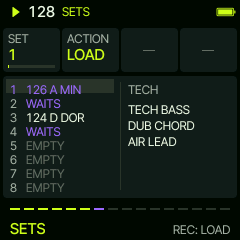
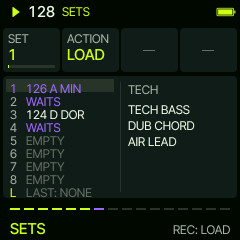
Sardine 0.6: LAST, the last groove kept by itself
SETS' ninth slot: three seconds after a change while stopped (and after a stop), the groove goes into LAST when it
differs from what LAST holds. Not loaded at a start; LOAD brings it back. STORE and CLEAR leave it alone.

Claude-Session: https://claude.ai/code/session_01VgesZgNNDFiPGvKyDTZVUK

Changed region(s): [[0.0292, 0.35, 0.4667, 0.8458]]

diff --git a/firmware/src/sa_ui.c b/firmware/src/sa_ui.c
@@ -389,8 +389,9 @@ static void sv_cards_of(sa_ui *u, sv_card *c)
     }
     case SV_PG_SETS: {
         static const char *const ACT[SV_SA_ACTS] = {"LOAD", "STORE", "NEW", "CLEAR"};
-        sv_fmt_int(t, u->set_slot + 1);
-        sv_card_txt(&c[0], "SET", t, u->set_slot * 1000 / (SV_SETS - 1), false);
+        if (u->set_slot == SV_LAST) sv_cpy(t, "LAST", sizeof t);
+        else sv_fmt_int(t, u->set_slot + 1);
+        sv_card_txt(&c[0], "SET", t, u->set_slot * 1000 / (SV_SLOTS - 1), false);
         sv_card_txt(&c[1], "ACTION", ACT[sv_wrap(u->set_act, SV_SA_ACTS)], -1, false);
         sv_card_off(&c[2]);
         sv_card_off(&c[3]);
@@ -965,23 +966,24 @@ static void sv_panel_key(sa_ui *u)
     }
 }
 
-/* SETS: the eight sets, a row each (its tempo and key), the one picked lit; beside them what it holds (its kit, its
- * synth sounds) */
+/* SETS: the eight sets and LAST, a row each (its tempo and key), the one picked lit; beside them what it holds (its
+ * kit, its synth sounds) */
 static void sv_panel_sets(sa_ui *u)
 {
-    for (int i = 0; i < SV_SETS; ++i) {
+    for (int i = 0; i < SV_SLOTS; ++i) {
         const sv_set_info *si = &u->sets[i];
-        int32_t y = 4 + i * 14;
+        int32_t y = 4 + i * 13;
         bool on = i == u->set_slot;
         char t[24], a[8];
-        if (on) cv_rect(6, y - 1, 108, 14, sv_well());
+        if (on) cv_rect(6, y - 1, 108, 13, sv_well());
         uint16_t bg = on ? sv_well() : T_SURF;
-        sv_fmt_int(a, i + 1);
-        cv_text_on(10, y + 2, &AF_S, a, on ? T_ACCENT : T_MID, bg);
+        if (i == SV_LAST) sv_cpy(a, "L", sizeof a);
+        else sv_fmt_int(a, i + 1);
+        cv_text_on(10, y + 1, &AF_S, a, on ? T_ACCENT : i == SV_LAST ? T_THEME : T_MID, bg);
         if (si->wait) {
             sv_cpy(t, "WAITS", sizeof t);
         } else if (!si->used) {
-            sv_cpy(t, "EMPTY", sizeof t);
+            sv_cpy(t, i == SV_LAST ? "LAST: NONE" : "EMPTY", sizeof t);
         } else {
             sv_fmt_int(t, si->bpm);
             sv_cat(t, " ", sizeof t);
@@ -989,24 +991,33 @@ static void sv_panel_sets(sa_ui *u)
             sv_cat(t, si->scale == SA_SC_MAJOR ? " MAJ" : si->scale == SA_SC_DORIAN ? " DOR" :
                       si->scale == SA_SC_PHRYGIAN ? " PHR" : " MIN", sizeof t);
         }
-        cv_text_fit(26, y + 2, &AF_S, t, si->wait ? T_ACCENT : on ? T_ACCENT : si->used ? T_TEXT : T_DIM, bg, 86);
+        cv_text_fit(26, y + 1, &AF_S, t, si->wait ? T_ACCENT : on ? T_ACCENT : si->used ? T_TEXT : T_DIM, bg, 86);
     }
-    cv_rect(120, 6, 1, 108, T_LINE);
-    const sv_set_info *si = &u->sets[sv_clampi(u->set_slot, 0, SV_SETS - 1)];
+    cv_rect(120, 6, 1, 110, T_LINE);
+    int k = sv_clampi(u->set_slot, 0, SV_SLOTS - 1);
+    const sv_set_info *si = &u->sets[k];
     if (si->wait) {
         sv_label(128, 6, si->wait == 2 ? "CLEARS WHEN" : "SAVES WHEN", T_ACCENT);
         sv_label(128, 22, "STOPPED", T_ACCENT);
         return;
     }
-    if (!si->used) {
+    if (k == SV_LAST) {
+        sv_label(128, 6, "LAST", T_THEME);
+        if (!si->used) {
+            sv_label(128, 26, "KEPT BY ITSELF", T_MID);
+            sv_label(128, 42, "WHEN STOPPED", T_MID);
+            return;
+        }
+    } else if (!si->used) {
         sv_label(128, 6, "EMPTY", T_DIM);
         sv_label(128, 26, "STORE KEEPS", T_MID);
         sv_label(128, 42, "WHAT PLAYS", T_MID);
         return;
     }
-    cv_text_fit(128, 6, &AF_S, sa_kit_name(si->kit), T_MID, T_SURF, 104);
-    for (int k = 0; k < si->nsyn && k < SA_SYNTHS; ++k)
-        cv_text_fit(128, 26 + k * 16, &AF_S, sas_of(si->snd[k])->name, T_TEXT, T_SURF, 104);
+    int32_t y0 = k == SV_LAST ? 22 : 6;
+    cv_text_fit(128, y0, &AF_S, sa_kit_name(si->kit), T_MID, T_SURF, 104);
+    for (int n = 0; n < si->nsyn && n < SA_SYNTHS; ++n)
+        cv_text_fit(128, y0 + 20 + n * 16, &AF_S, sas_of(si->snd[n])->name, T_TEXT, T_SURF, 104);
 }
 
 static void sv_panel_menu(sa_ui *u)
@@ -1261,7 +1272,7 @@ void sv_knob(sa_ui *u, int k, int d)
     }
     if (k == SV_K_PRESETS) {
         if (u->page == SV_PG_SETS) {
-            u->set_slot = sv_clampi(u->set_slot + d, 0, SV_SETS - 1);
+            u->set_slot = sv_clampi(u->set_slot + d, 0, SV_SLOTS - 1);
             return;
         }
         if (u->page == SV_PG_DRUMS) {
@@ -1300,7 +1311,7 @@ void sv_knob(sa_ui *u, int k, int d)
     if (k < SV_K1 || k > SV_K4) return;
     int i = k - SV_K1;
     if (u->page == SV_PG_SETS) {                   /* (nothing to keep: the set picked and the action) */
-        if (i == 0) u->set_slot = sv_clampi(u->set_slot + d, 0, SV_SETS - 1);
+        if (i == 0) u->set_slot = sv_clampi(u->set_slot + d, 0, SV_SLOTS - 1);
         else if (i == 1) u->set_act = sv_clampi(u->set_act + d, 0, SV_SA_ACTS - 1);
         else return;
         u->hot = i;
@@ -1418,7 +1429,11 @@ void sv_button(sa_ui *u, int b, bool down)
     case SV_B_PLAY: sa_play(g, !g->playing); break;
     case SV_B_REC:
         if (u->page == SV_PG_SETS) {               /* the action: the glue does it (the flash is its) */
-            const sv_set_info *si = &u->sets[sv_clampi(u->set_slot, 0, SV_SETS - 1)];
+            const sv_set_info *si = &u->sets[sv_clampi(u->set_slot, 0, SV_SLOTS - 1)];
+            if (u->set_slot == SV_LAST && (u->set_act == SV_SA_STORE || u->set_act == SV_SA_CLEAR)) {
+                sv_msg(u, "LAST KEEPS ITSELF");
+                break;
+            }
             if ((u->set_act == SV_SA_LOAD || u->set_act == SV_SA_CLEAR) && !si->used && !si->wait) {
                 sv_msg(u, "THAT SET IS EMPTY");
                 break;

diff --git a/firmware/src/sa_fw.c b/firmware/src/sa_fw.c
@@ -55,7 +55,8 @@ static void sa_audio_post(int32_t *out, uint32_t n)
 }
 
 /* ---- the flash: the preferences (the look, a count of the starts: each start's fresh groove) in Felucca's first
- * project object; the eight sets, three to an object, in the other three. Written only while stopped (the flash is
+ * project object; the eight sets and LAST (the groove as it was last left, stopped), three to an object, in the other
+ * three. Written only while stopped (the flash is
  * the code's: XIP, writing it while playing would stall the audio); read at any time (storage_hw.c reads in short
  * windows, the audio keeps up) ---- */
 #define SA_PREF_MAGIC 0x31504153u                            /* "SAP1" */
@@ -69,7 +70,9 @@ typedef struct { uint32_t magic; uint16_t size, ver; sa_settings s; } sa_record;
 #define SA_SET_OBJ(k) (OBJ_PROJECT0 + 1u + (uint32_t)(k) / SA_SET_PER)
 #define SA_SET_OFF(k) ((uint32_t)(k) % SA_SET_PER * SA_SET_STRIDE)
 _Static_assert(sizeof(sa_record) <= SA_SET_STRIDE && SA_SET_LEN <= ST_PAYLOAD_MAX, "the sets' room in the flash");
-_Static_assert(OBJ_PROJECT0 + 1u + (SV_SETS - 1u) / SA_SET_PER < OBJ_PROJECT0 + 4u, "the sets in the project objects");
+_Static_assert(OBJ_PROJECT0 + 1u + (SV_SLOTS - 1u) / SA_SET_PER < OBJ_PROJECT0 + 4u, "the sets in the project objects");
+#define SA_LAST_MS 3000u                                     /* LAST: kept this long after the last change, stopped */
+static uint32_t sa_last_sig;                                 /* the groove LAST holds (0: not written this start) */
 static sa_prefs sa_pref;
 static uint8_t sa_pref_look;                                 /* the look as last written */
 static sa_settings sa_next;                                  /* a groove armed for the bar line (a set, a fresh one) */
@@ -183,7 +186,7 @@ static void sa_set_info_of(int k, const sa_settings *s)
 }
 static void sa_sets_scan(void)
 {
-    for (int k = 0; k < SV_SETS; ++k)
+    for (int k = 0; k < SV_SLOTS; ++k)
         sa_set_info_of(k, sa_set_read(k, &sa_next) ? &sa_next : 0);
 }
 
@@ -223,10 +226,14 @@ static void sa_prefs_load(void)
 static void sa_set_do(int act, int k)
 {
     char m[32];
-    k = k < 0 ? 0 : k >= SV_SETS ? SV_SETS - 1 : k;
+    k = k < 0 ? 0 : k >= SV_SLOTS ? SV_SLOTS - 1 : k;
     sv_cpy(m, "SET ", sizeof m);
     m[4] = (char)('1' + k);
     m[5] = 0;
+    if (k == SV_LAST) {
+        if (act == SV_SA_STORE || act == SV_SA_CLEAR) { sv_msg(&sa_u, "LAST KEEPS ITSELF"); return; }
+        sv_cpy(m, "LAST", sizeof m);
+    }
     switch (act) {
     case SV_SA_LOAD:
     case SV_SA_NEW:
@@ -553,8 +560,16 @@ static void sa_frame(void)
             sv_msg(&sa_u, "THE FLASH FAILED");
         }
     }
-    if (sa_dirty && !sa_g.playing && now - sa_save_ms > 2000u) {   /* the look (the groove is not kept: SETS) */
+    static bool was_playing;
+    if (was_playing && !sa_g.playing) sa_save_ms = now;     /* (stopped: the tails ring out before the flash) */
+    was_playing = sa_g.playing;
+    if (sa_dirty && !sa_g.playing && now - sa_save_ms > SA_LAST_MS) {   /* the look; LAST, when the groove changed */
         if (sa_g.s.look != sa_pref_look) sa_prefs_save();
+        uint32_t sig = sv_hashb(2166136261u, &sa_g.s, sizeof sa_g.s) | 1u;
+        if (sig != sa_last_sig && sa_set_write(SV_LAST, &sa_g.s)) {
+            sa_last_sig = sig;
+            sa_set_info_of(SV_LAST, &sa_g.s);
+        }
         sa_dirty = false;
     }
     song.playing = sa_g.playing;

diff --git a/firmware/src/sa_ui.h b/firmware/src/sa_ui.h
@@ -24,8 +24,8 @@
  *   FX         a layer, a DRUMS row: mute it (at once)
  *   ARP        a synth layer: its ARP page (MODE RATE RANGE GATE), again: back
  *   SCL        the KEY page (KEY SCALE CHORDS BARS), again: back
- *   SAVE       SETS: eight grooves kept in the flash (KNOB 1 or PRESETS the set, KNOB 2 LOAD STORE NEW CLEAR, REC does
- *              it; a load or a new groove goes in on the one), again: back
+ *   SAVE       SETS: eight grooves kept in the flash and LAST, the last one kept by itself (KNOB 1 or PRESETS the
+ *              set, KNOB 2 LOAD STORE NEW CLEAR, REC does it; a load or a new groove goes in on the one), again: back
  *   HOME       MAIN, on MAIN: SPACE and back; held: MENU (colour, look)
  *   keys       the open layer, live (snapped to the scale); DRUMS: the lowest 16 are the row's steps (a hit on, off),
  *              the others play it; STEPS: the step's note. Music and steps only
@@ -50,6 +50,8 @@ enum { SV_PG_MAIN, SV_PG_LAYER, SV_PG_ARP, SV_PG_KEY, SV_PG_MENU, SV_PG_DRUMS, S
 
 /* SETS: eight grooves in the flash (the glue keeps them; the screen shows what each holds and asks for the action) */
 #define SV_SETS 8
+#define SV_LAST SV_SETS                       /* the ninth slot: the last groove, kept by itself (LOAD only) */
+#define SV_SLOTS (SV_SETS + 1)
 enum { SV_SA_LOAD, SV_SA_STORE, SV_SA_NEW, SV_SA_CLEAR, SV_SA_ACTS };
 typedef struct {
     uint8_t used, bpm, key, scale, kit, nsyn;
@@ -77,7 +79,7 @@ typedef struct {
     uint32_t frame;
     int batt;
     bool changed;                         /* a setting changed: the glue applies it (and keeps the look) */
-    sv_set_info sets[SV_SETS];            /* what each set holds (the glue fills it) */
+    sv_set_info sets[SV_SLOTS];           /* what each set holds, and LAST (the glue fills it) */
     int set_slot, set_act;                /* SETS: the set picked, the action (SV_SA_*) */
     int req_act, req_slot;                /* REC on SETS: what the glue is to do (req_act -1: nothing) */
     int sback, sback_layer;               /* the page SAVE goes back to */

diff --git a/tests/sa_ui_test.c b/tests/sa_ui_test.c
@@ -505,6 +505,17 @@ int main(int argc, char **argv)
     press(SV_B_REC);
     CHECK(ui.req_act == SV_SA_STORE && ui.req_slot == 6, "REC: STORE into an empty set asked");
     ui.req_act = -1;
+    ui.sets[SV_LAST] = (sv_set_info){1, 128, 5, SA_SC_MINOR, SA_KIT_HOUSE, 2, {2, 4, 0}, 0};
+    sv_knob(&ui, SV_K1, 9);
+    CHECK(ui.set_slot == SV_LAST, "KNOB 1 ends on LAST (%d)", ui.set_slot);
+    shot("19b_sets_last");
+    press(SV_B_REC);
+    CHECK(ui.req_act == -1, "STORE into LAST: refused (it keeps itself)");
+    sv_knob(&ui, SV_K2, -1);
+    press(SV_B_REC);
+    CHECK(ui.req_act == SV_SA_LOAD && ui.req_slot == SV_LAST, "LOAD LAST asked");
+    ui.req_act = -1;
+    sv_knob(&ui, SV_K1, -2);
     sv_knob(&ui, SV_K2, 9);
     CHECK(ui.set_act == SV_SA_CLEAR, "KNOB 2 stops at CLEAR");
     shot("20_sets_clear");

diff --git a/web/emu/sa_web.c b/web/emu/sa_web.c
@@ -470,5 +470,5 @@ EXPORT uint32_t web_da_page(void) { return (uint32_t)sa_u.page; }
 EXPORT uint32_t web_da_style(void) { uint32_t n = 0; for (int l = 0; l < SA_LAYERS; ++l) n += sa_used(&sa_g, l); return n; }
 EXPORT const char *web_da_version(void) { return SA_VERSION; }
 EXPORT uint32_t web_da_groove(void) { return sv_hashb(2166136261u, sa_g.s.code, sizeof sa_g.s.code); }
-EXPORT uint32_t web_da_set_used(uint32_t k) { return k < SV_SETS ? sa_u.sets[k].used : 0u; }
+EXPORT uint32_t web_da_set_used(uint32_t k) { return k < SV_SLOTS ? sa_u.sets[k].used : 0u; }
 EXPORT uint32_t web_sample_rate(void) { return FS; }

diff --git a/docs/MANUAL.md b/docs/MANUAL.md
@@ -171,8 +171,8 @@ All synthesised: TECH, HOUSE, DEEP, HARD, BOOM, TIGHT, AFRO, DUSTY, CLASSIC.
 <img src="screens/sets.png" alt="SETS" width="200">
 </p>
 
-**SAVE** opens SETS: eight grooves kept in the flash, a row each with its tempo and key; beside the rows, what the set
-picked holds (its kit, its synth sounds). **KNOB 1** (or PRESETS) picks a set, **KNOB 2** the action, **REC** does it:
+**SAVE** opens SETS: eight grooves kept in the flash and **LAST** (L), a row each with its tempo and key; beside the
+rows, what the set picked holds (its kit, its synth sounds). **KNOB 1** (or PRESETS) picks a set, **KNOB 2** the action, **REC** does it:
 
 | Action | What REC does |
 | --- | --- |
@@ -184,6 +184,11 @@ picked holds (its kit, its synth sounds). **KNOB 1** (or PRESETS) picks a set, *
 The flash is written only while stopped: a STORE or CLEAR while playing is kept and written as you stop (the row says
 WAITS; one set at a time). SAVE again goes back.
 
+**LAST** keeps itself: three seconds after a change, stopped (and three seconds after you stop), the groove as it is
+goes into LAST. It never comes back on its own (a start is still a fresh groove), but LOAD brings it back: after a
+power cut, or the morning after. STORE and CLEAR leave it alone. Every set stays as it is until you STORE over it or
+CLEAR it, and loads as often as you like.
+
 ## MENU
 
 HOME held: the colour (SHOAL by default, and Felucca's) and the look (FLAT, LINE).
@@ -194,5 +199,5 @@ The synth layers' parts on channels 1, 2 and 3, the kit on 10 with General MIDI 
 
 ## Saving
 
-Nothing saves itself: a start is a fresh groove, and what you keep goes into SETS. The colour and the look are kept.
+A start is a fresh groove; what you keep goes into SETS, and the last groove into LAST by itself. The colour and the look are kept.
 0.5's saved groove comes back once, as set 1.

diff --git a/README.md b/README.md
@@ -20,7 +20,7 @@ every layer, its filter, resonance, drive and envelope, is under your fingers at
 - GATE: a held pad cut to a rhythm (twelve ready gates, edited on the keys); PAN: fixed, sweeping, ping-pong or random
 - An arpeggiator with ten modes, triplet rates and up to four octaves, always in the key
 - Key, scale and ten chord progressions; every synth layer follows the chord
-- Every start a fresh groove (other sounds, patterns, kit, key); eight sets keep the ones you want
+- Every start a fresh groove (other sounds, patterns, kit, key); eight sets keep the ones you want, LAST the last one
 
 Version 0.6 is a test build on the `dev` branch, not released yet: [install it on the FM-1](https://delirioux.github.io/sardine/dev/install/)
 or [try it in the browser](https://delirioux.github.io/sardine/dev/try/). The [manual](docs/MANUAL.md) has every screen.

diff --git a/docs/RELEASE.md b/docs/RELEASE.md
@@ -11,7 +11,8 @@ Sardine 0.6: live club mixing for the FM-1.
 - 81 synth sounds, among them an AMBIENT set (wide pads, dub stabs, a rumbling bass) in a big hall; nine
   synthesised drum kits; 24 drum and 29 synth patterns
 - Key, scale and ten chord progressions, followed by every synth layer
-- Every start a fresh groove; SETS keeps eight grooves (LOAD on the one, STORE, NEW, CLEAR)
+- Every start a fresh groove; SETS keeps eight grooves (LOAD on the one, STORE, NEW, CLEAR) and LAST, the
+  last groove, by itself
 
 Install it from the site with a Chromium browser (Chrome, Edge) and a USB cable. The package also holds three files of
 JieLi's AC79 SDK under Apache-2.0: see LICENSING.md.
